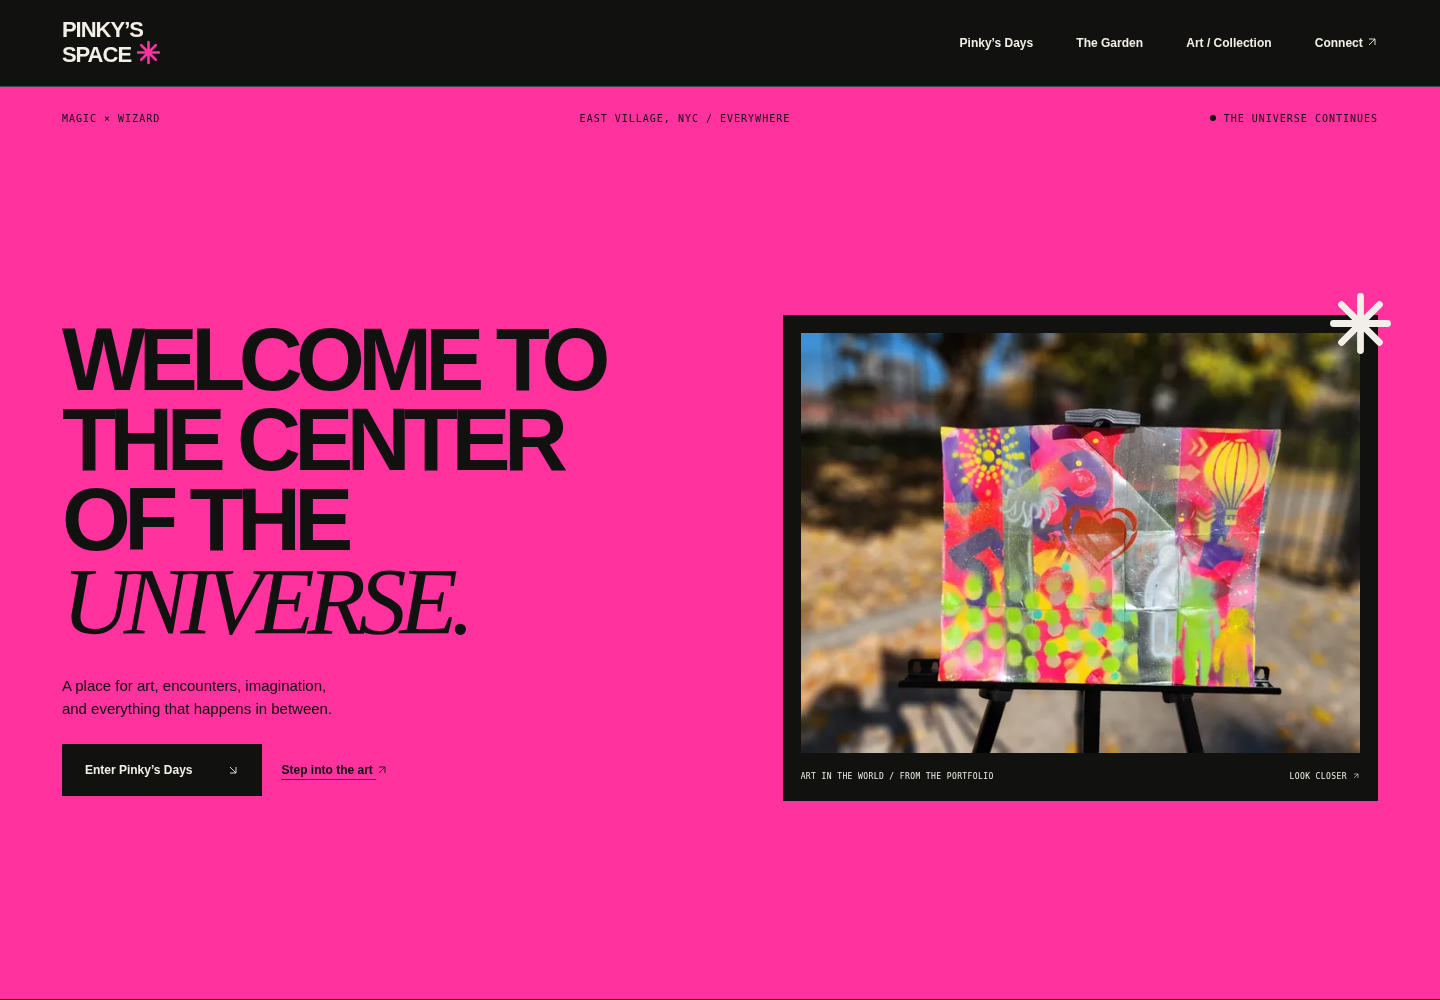
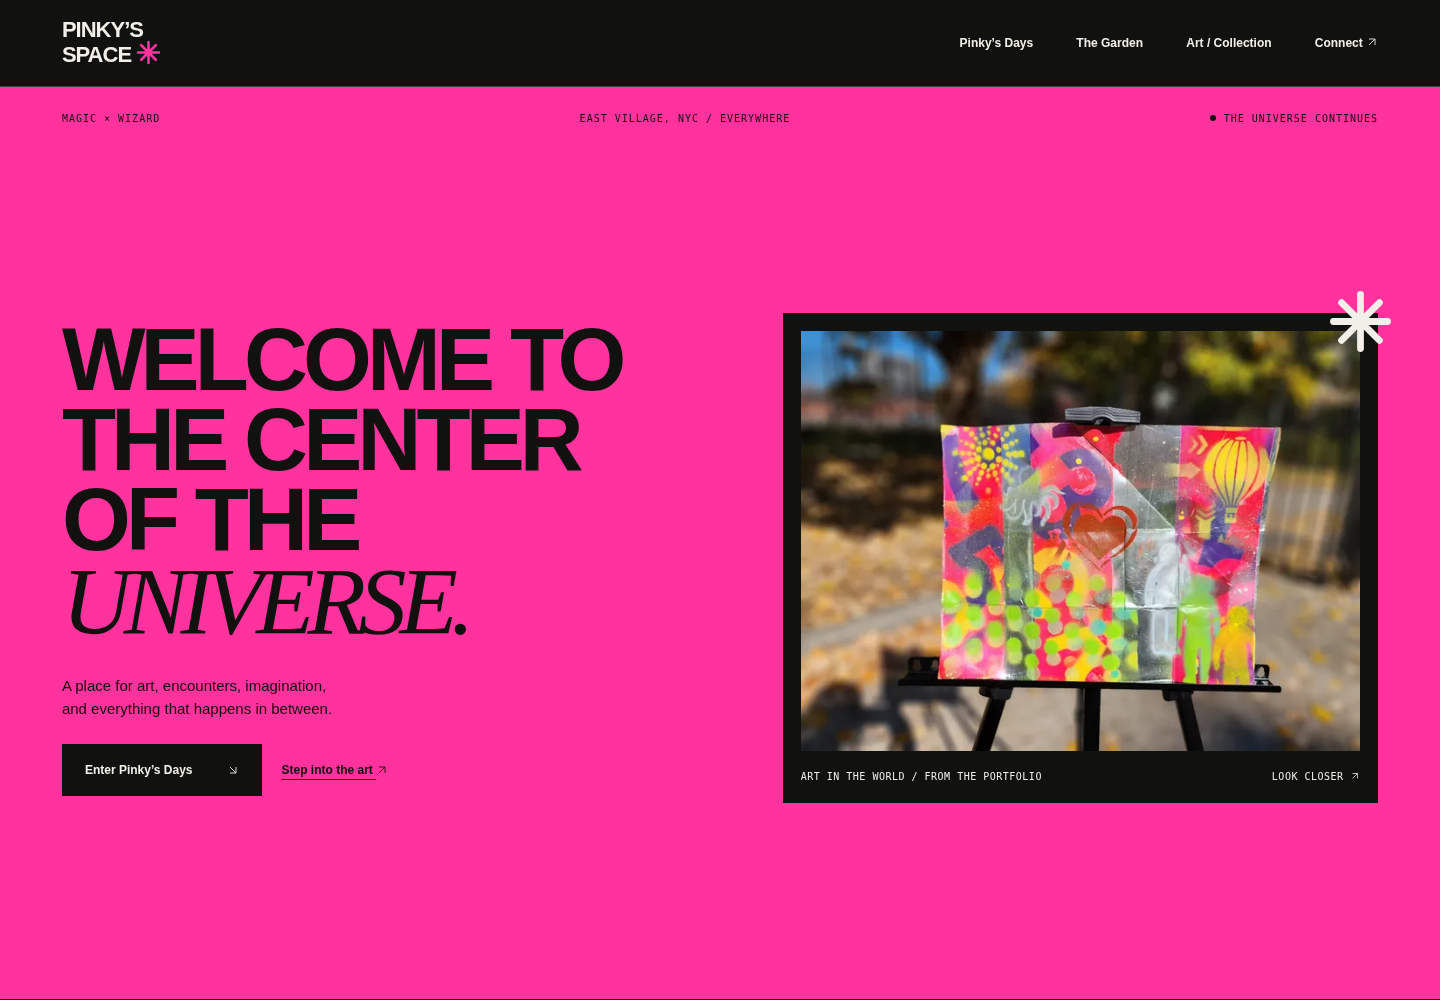
Refine gallery typography and mobile controls for publication

diff --git a/assets/space.css b/assets/space.css
@@ -58,3 +58,33 @@ dialog{width:min(640px,calc(100% - 32px));max-height:calc(100svh - 40px);padding
 @media(max-width:650px){.entrance{padding-bottom:24px}.entrance-stage{grid-template-columns:1fr;gap:30px;padding-top:40px}.entrance .entrance-copy h1{font-size:clamp(43px,11.5vw,74px);margin-bottom:25px}.entrance .entrance-bottom{gap:19px}.entrance .entrance-bottom p{font-size:13px}.entrance-art{padding:12px}.entrance-art img{max-height:none}.entrance-art figcaption{font-size:8px}.portfolio-heading{display:block;padding-block:38px}.portfolio-heading h2{font-size:48px}.portfolio-heading>div{font-size:13px;margin-top:25px}.portfolio-grid{grid-template-columns:1fr;gap:32px}.portfolio-card:nth-child(even){margin-top:0}.portfolio-open img{max-height:none}.portfolio-card figcaption{grid-template-columns:auto 1fr;gap:15px}.portfolio-card figcaption p{font-size:12px}.portfolio-footer{align-items:start;flex-direction:column;gap:22px}.portfolio-dialog-inner{padding:12px}.portfolio-dialog-bottom{gap:10px}#portfolio-image{height:60svh}#portfolio-caption{font-size:12px}.image-nav{width:44px;height:44px}}
 @media print{.portfolio-card[hidden]{display:block!important}.portfolio-grid{grid-template-columns:repeat(2,1fr)}.portfolio-card{break-inside:avoid}.portfolio-open img{max-height:300px}.portfolio-card:nth-child(even){margin-top:0}#portfolio-more,.image-open{display:none!important}.entrance-stage{grid-template-columns:1fr 1fr}.entrance-art img{max-height:400px}}
 .arrow,.star{display:inline-block;width:1em;height:1em;vertical-align:-.12em;flex:none}
+/* Publication polish: readable details, generous touch targets and quiet focus. */
+.entrance .entrance-copy h1{letter-spacing:-.055em}
+.entrance-art figcaption{font-size:10px;line-height:1.6}
+.portfolio-number{font-size:10px}
+.portfolio-card figcaption p{font-size:14px;line-height:1.6}
+.header nav a{position:relative;padding-block:8px}
+.header nav a::after{content:"";position:absolute;left:0;right:0;bottom:2px;height:1px;background:var(--pink);transform:scaleX(0);transform-origin:left;transition:transform .18s ease}
+.header nav a:hover::after,.header nav a:focus-visible::after{transform:scaleX(1)}
+.image-open{width:44px;height:44px}
+.portfolio-open{outline:1px solid #34342f;outline-offset:0}
+.portfolio-open:hover,.portfolio-open:focus-visible{outline-color:var(--pink)}
+.portfolio-open:focus-visible{outline-width:3px;outline-offset:5px}
+.portfolio-open:focus-visible .image-open{background:var(--pink)}
+.journal:before{content:"+";font-family:Arial,Helvetica,sans-serif;font-size:40px;line-height:1;color:#a80055}
+@media(max-width:650px){
+  html{scroll-padding-top:154px}
+  .header nav a{min-height:44px;font-size:11px;padding-block:6px}
+  .entrance{min-height:calc(100svh - 123px)}
+  .entrance-meta{font-size:10px;letter-spacing:.04em}
+  .entrance-stage{padding-top:28px;gap:22px}
+  .entrance .entrance-copy h1{letter-spacing:-.045em}
+  .entrance .entrance-bottom p{font-size:14px;line-height:1.55}
+  .entrance-art figcaption{font-size:10px;gap:12px}
+  .section-kicker,.eyebrow,.archive-foot{font-size:10px;letter-spacing:.04em}
+  .portfolio-card figcaption{grid-template-columns:1fr;gap:5px}
+  .portfolio-card figcaption p{font-size:14px}
+  .portfolio-number{font-size:10px}
+  .prose p,.garden-story p:not(.large),.contact p{font-size:15px}
+  .text-link{font-size:12px}
+}

diff --git a/review/FOUNDER-REVIEW.md b/review/FOUNDER-REVIEW.md
@@ -1,6 +1,6 @@
 # Pinky’s Space — founder review
 
-Prepared October 30, 2026. Status: working, unpublished visual and interaction draft with all 23 supplied portfolio photos integrated. Automated source and real-browser checks passed. Exact artwork titles and credits, historical garden/venue photography, and founder visual review remain open.
+Prepared October 30, 2026. Status: publication-authorized release candidate with all 23 supplied portfolio photos integrated. Automated source and real-browser checks passed. Exact artwork titles and credits, historical garden/venue photography, and founder visual review remain open.
 
 ## What is ready to review
 
@@ -88,7 +88,7 @@ The baseline findings are source-based. The updated draft also passed the automa
 - Automated real-browser checks passed with system Chromium 154.0.8037.57 and this project's pinned Playwright Core 1.57.0. All 46 WebP variants decoded at their declared widths, and all 23 portfolio images decoded successfully after disclosure. Gallery previous/next controls, arrow keys, Tab containment, Escape, and focus restoration passed; all seven archive headings were reachable by keyboard.
 - Browser checks confirmed the five product prices and inquiry destinations, retained Square/companion-domain/checkout links, desktop/mobile main navigation, reduced-motion handling, and the no-JavaScript gallery fallback. The homepage produced no external requests or browser errors. Checkout remains opt-in; no transaction was attempted.
 - No horizontal overflow was detected at viewport widths of 320, 390, 650, 768, 1024, or 1440 pixels.
-- No third-party script is requested by the homepage. Its HTML, CSS, scripts, content data and favicon total 88,966 bytes before compression, excluding the WebP derivatives. The complete derivative set is about 7.4 MiB; the hero is prioritized while below-fold images load lazily and responsive variants reduce smaller-screen transfers. No real performance measurement is implied.
+- No third-party script is requested by the homepage. Its HTML, CSS, scripts, content data and favicon total 90,752 bytes before compression, excluding the WebP derivatives. The complete derivative set is about 7.4 MiB; the hero is prioritized while below-fold images load lazily and responsive variants reduce smaller-screen transfers. No real performance measurement is implied.
 
 The checks are reproducible from the project root with Node, npm, Python 3, and an installed Chromium:
 
@@ -117,12 +117,16 @@ These are automated Chromium results, including emulated mobile viewport sizes. 
 3. Review the actual portfolio selection and descriptive captions. Confirm artwork titles and artist/photographer credits where known. For the next archive addition, collect just three to five original venue/garden photos with a brief true caption, approximate date, and photo credit where known. The supplied Drive-image workflow is already working; it does not need to be restarted. Portfolio artwork will not be assigned to priced works without matching evidence.
 4. Use review/editor.html to add verified memories and credited images. Export the content file before closing the tab.
 5. Confirm the listed print prices and whether the original Stripe button remains the intended checkout. Its configured identity was preserved but checkout was not exercised. Confirm Square’s intended role and whether an authenticated CMS is desired later.
-6. Review the saved desktop/mobile screenshots and any additional browser or assistive-technology coverage the founders need, then obtain explicit Magic × Wizard authorization before merging or publishing.
+6. Publication authorization has been received for the existing GitHub Pages site. The saved desktop/mobile screenshots remain available for continued founder review and any additional browser or assistive-technology coverage.
 
 The attachment ended at “The atmosphere” in section C, The Garden. Requirements beyond that point were not available.
 
 ## Recovery and release boundary
 
-The review branch is isolated from main. Do not merge it until founders approve. No Sites registration, domain change, production deployment, Square mutation, or checkout transaction is part of this work.
+Publication was explicitly authorized in this conversation on October 30, 2026. The validated review branch is authorized for merging into the existing GitHub Pages main branch. This authorization does not change DNS, Square inventory, checkout infrastructure, product pricing, or domains. No payment transaction is part of verification.
 
 Local recovery materials contain a published-baseline.zip with all four original files at verified byte content and a Git bundle with baseline and review checkpoint branches. The review source is also downloadable from the draft branch on GitHub. The original upstream SHA remains recoverable in GitHub. If a future authorized deployment needs rollback, prepare a reviewed revert to that source checkpoint; do not automatically force-reset main.
+
+## Visual refinement for publication
+
+The final polish relaxes headline tracking, enlarges mobile caption/metadata text and navigation touch targets, stacks mobile image labels above captions, and makes keyboard image focus as clear as hover. Artwork proportions, all 23 images, seven archive chapters, five prices and commerce destinations remain intact. The source and real-Chromium checks are rerun for this release; the saved screenshots show the refined state.

diff --git a/README.md b/README.md
@@ -1,6 +1,6 @@
-# Pinky’s Space — founder review implementation
+# Pinky’s Space
 
-An unpublished redesign of the existing static website. The website needs no build step or runtime package installation. Reproducible validation uses this project's pinned development dependencies.
+The static Pinky’s Space art and culture website. The website needs no build step or runtime package installation. Reproducible validation uses this project's pinned development dependencies.
 
 Open `index.html` in a modern browser, or serve this directory with `python -m http.server 8000` and visit the URL printed by that command. No checkout is loaded by the homepage. The separate `checkout.html` loads the original Stripe button only after an explicit click.
 
@@ -28,8 +28,8 @@ npm run browser-check
 
 The browser check defaults to `/usr/bin/chromium`. To select another installed browser executable, run `CHROMIUM_PATH=/path/to/chromium npm run browser-check`. No browser download is required. Source checks and automated real-browser checks passed with Chromium 154.0.8037.57 and the project-pinned Playwright Core 1.57.0. The checks use this checkout's dependencies, without packages from another project.
 
-The original `CNAME` and `pinky-final-wave.html` are unchanged. The published source checkpoint is GitHub commit `eca40d58c59d7f381bf6e18c67bb43ec16632509`.
+The original `CNAME` and `pinky-final-wave.html` are unchanged. The previous production checkpoint is GitHub commit `eca40d58c59d7f381bf6e18c67bb43ec16632509`.
 
 All 23 photos from the supplied Drive portfolio are integrated in the gallery. Image 19 also anchors the entrance and the Artists archive chapter. Captions describe visible content; no unverified artwork titles, artist credits, or matches to the five priced products have been assumed. Derivatives retain the full image without cropping or creative alteration and omit EXIF metadata. The complete derivative set is 7,751,884 bytes (about 7.4 MiB); responsive loading avoids requesting every size at once.
 
-**Do not merge or deploy until Magic × Wizard authorize publication.** The branch is a review draft. Exact artwork titles and credits, historical garden/venue photographs, and founder visual review remain open. The next archive addition can be just three to five original venue/garden photos with a true brief caption, approximate date, and photo credit where known. No substitute historical imagery has been fabricated.
+Publication to the existing GitHub Pages site was explicitly authorized in this conversation on October 30, 2026. The release preserves existing commerce and domain configuration. Exact artwork titles and credits, historical garden/venue photographs, and founder visual review remain open. The next archive addition can be just three to five original venue/garden photos with a true brief caption, approximate date, and photo credit where known. No substitute historical imagery has been fabricated.
